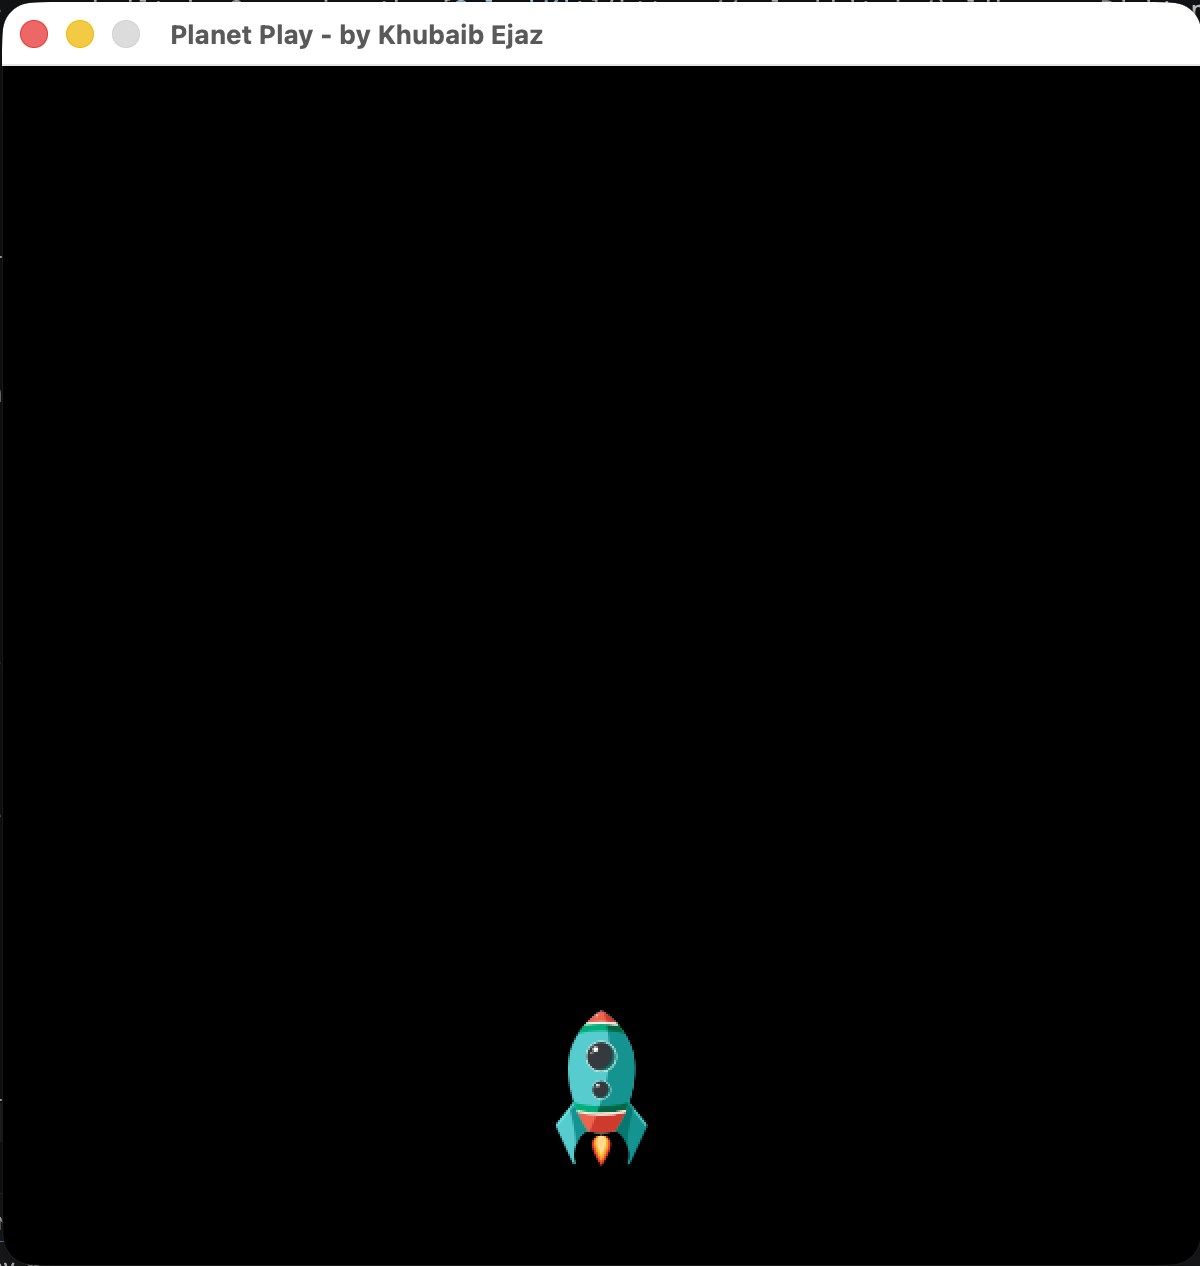
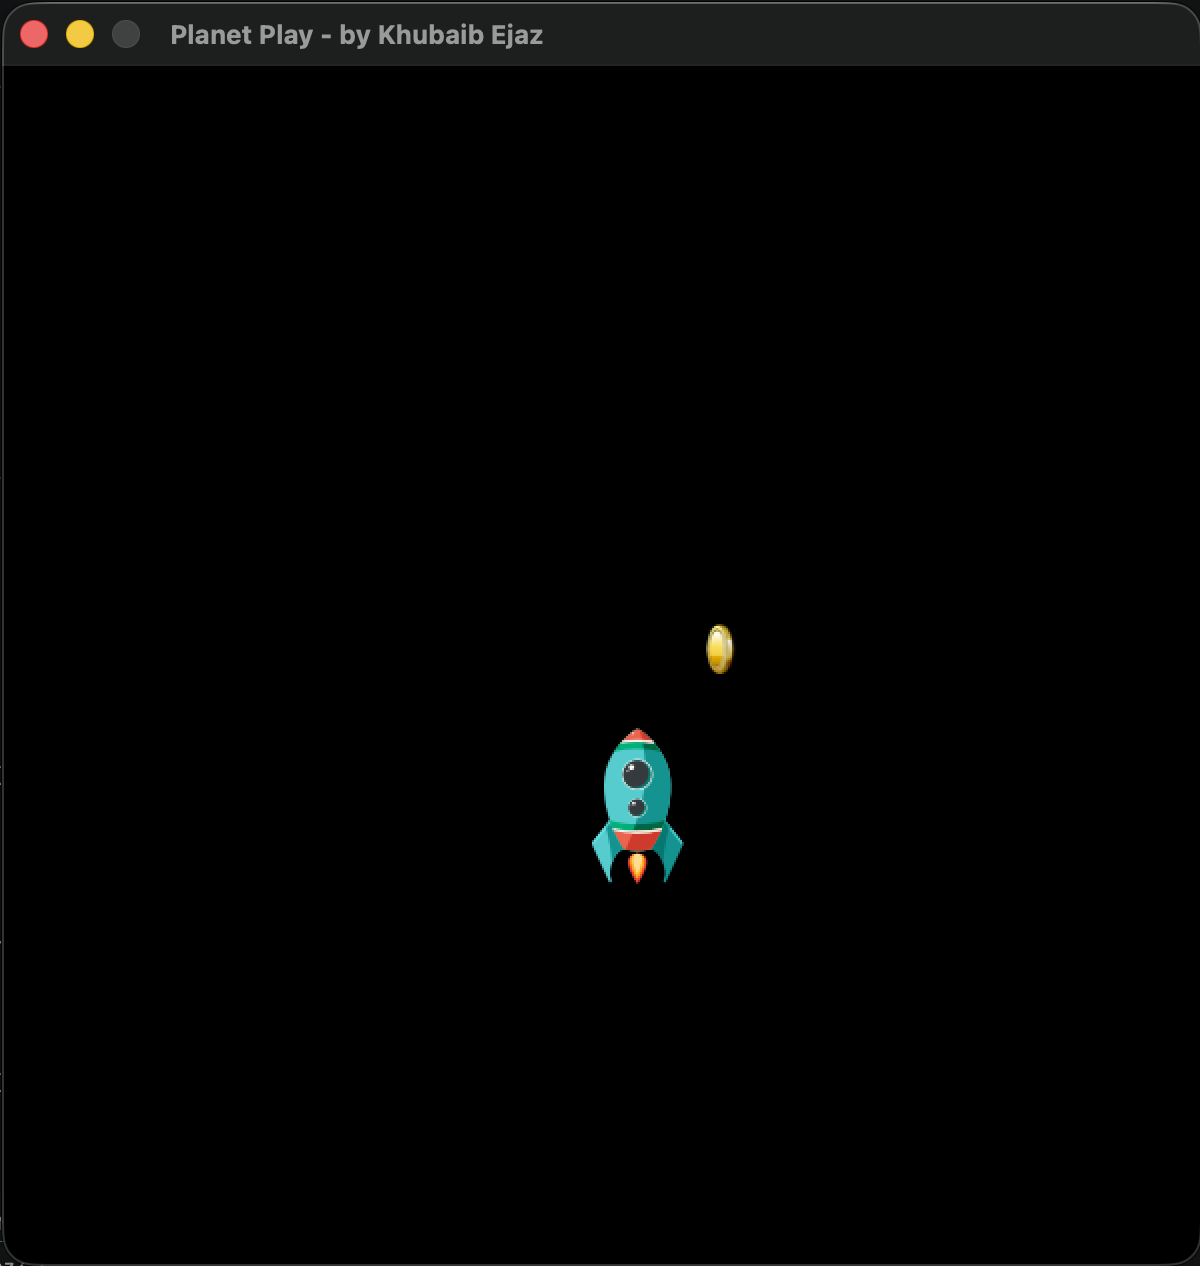
Refactor the game loop into input, update, and draw functions
Moves the arrow-key handling, coin collision, and rendering out of main() into handle_input, update_game, and draw_game. Same behaviour, clearer structure.

diff --git a/planet-play.cpp b/planet-play.cpp
@@ -1,17 +1,85 @@
 #include "splashkit.h"
 
+const int SCREEN_SIZE = 600;
+const int BOTTOM_GAP = 50; // gap between the ship and the bottom edge at the start
+const int SPEED = 3; // pixels moved per frame
+const string SHIP_NAME = "aquarii-v";
+
+/**
+ * Procedure: handle_input
+ * Purpose: Reads the arrow keys and moves the ship one step per frame
+ *
+ * @param player_x the ship's horizontal position, updated in place
+ * @param player_y the ship's vertical position, updated in place
+ */
+void handle_input(double &player_x, double &player_y)
+{
+    process_events();
+
+    if (key_down(UP_KEY))
+    {
+        player_y -= SPEED;
+    }
+    else if (key_down(DOWN_KEY))
+    {
+        player_y += SPEED;
+    }
+    else if (key_down(RIGHT_KEY))
+    {
+        player_x += SPEED;
+    }
+    else if (key_down(LEFT_KEY))
+    {
+        player_x -= SPEED;
+    }
+}
+
+/**
+ * Procedure: update_game
+ * Purpose: Moves the coin to a new random spot when the ship collects it,
+ * then advances the coin's spin animation
+ *
+ * @param coin the coin sprite, updated in place
+ * @param ship the ship bitmap, used for the collision check
+ * @param player_x the ship's horizontal position
+ * @param player_y the ship's vertical position
+ */
+void update_game(sprite coin, bitmap ship, double player_x, double player_y)
+{
+    if (sprite_bitmap_collision(coin, ship, player_x, player_y))
+    {
+        sprite_set_x(coin, rnd(SCREEN_SIZE - sprite_width(coin)));
+        sprite_set_y(coin, rnd(SCREEN_SIZE - sprite_height(coin)));
+    }
+
+    update_sprite(coin);
+}
+
+/**
+ * Procedure: draw_game
+ * Purpose: Clears the screen and draws the ship and coin for this frame
+ *
+ * @param ship the ship bitmap
+ * @param coin the coin sprite
+ * @param player_x the ship's horizontal position
+ * @param player_y the ship's vertical position
+ */
+void draw_game(bitmap ship, sprite coin, double player_x, double player_y)
+{
+    clear_screen(COLOR_BLACK);
+    draw_bitmap(ship, player_x, player_y);
+    draw_sprite(coin);
+    refresh_screen(60);
+}
+
 int main()
 {
-    const int SCREEN_SIZE = 600;
-    const int BOTTOM_GAP = 50; // gap between the ship and the bottom edge at the start
-    const int SPEED = 3; // pixels moved per frame
-
     open_window("Planet Play - by Khubaib Ejaz", SCREEN_SIZE, SCREEN_SIZE);
 
     // Load the ship, coin, and coin animation from the resource bundle.
     load_resource_bundle("planet_play", "planet_play.txt");
 
-    bitmap ship = bitmap_named("aquarii-v");
+    bitmap ship = bitmap_named(SHIP_NAME);
 
     // Start the ship centred horizontally, near the bottom of the screen.
     double player_x = (SCREEN_SIZE - bitmap_width(ship)) / 2;
@@ -25,39 +93,9 @@ int main()
 
     while (!quit_requested())
     {
-        process_events();
-
-        // One direction per frame, based on the arrow keys.
-        if (key_down(UP_KEY))
-        {
-            player_y -= SPEED;
-        }
-        else if (key_down(DOWN_KEY))
-        {
-            player_y += SPEED;
-        }
-        else if (key_down(RIGHT_KEY))
-        {
-            player_x += SPEED;
-        }
-        else if (key_down(LEFT_KEY))
-        {
-            player_x -= SPEED;
-        }
-
-        // When the ship touches the coin, move the coin to a new random spot.
-        if (sprite_bitmap_collision(coin, ship, player_x, player_y))
-        {
-            sprite_set_x(coin, rnd(SCREEN_SIZE - sprite_width(coin)));
-            sprite_set_y(coin, rnd(SCREEN_SIZE - sprite_height(coin)));
-        }
-
-        update_sprite(coin);
-
-        clear_screen(COLOR_BLACK);
-        draw_bitmap(ship, player_x, player_y);
-        draw_sprite(coin);
-        refresh_screen(60);
+        handle_input(player_x, player_y);
+        update_game(coin, ship, player_x, player_y);
+        draw_game(ship, coin, player_x, player_y);
     }
 
     return 0;

diff --git a/README.md b/README.md
@@ -32,6 +32,7 @@ The game is built as a series of commits, each adding one idea on top of the las
 
 - **Flying ship** — load a ship bitmap and move it around the window with the arrow keys.
 - **Collectible coin** — a spinning coin that jumps to a new random spot each time the ship touches it.
+- **Cleaner structure** — split the game loop into separate input, update, and drawing functions.
 
 ## Built with
 